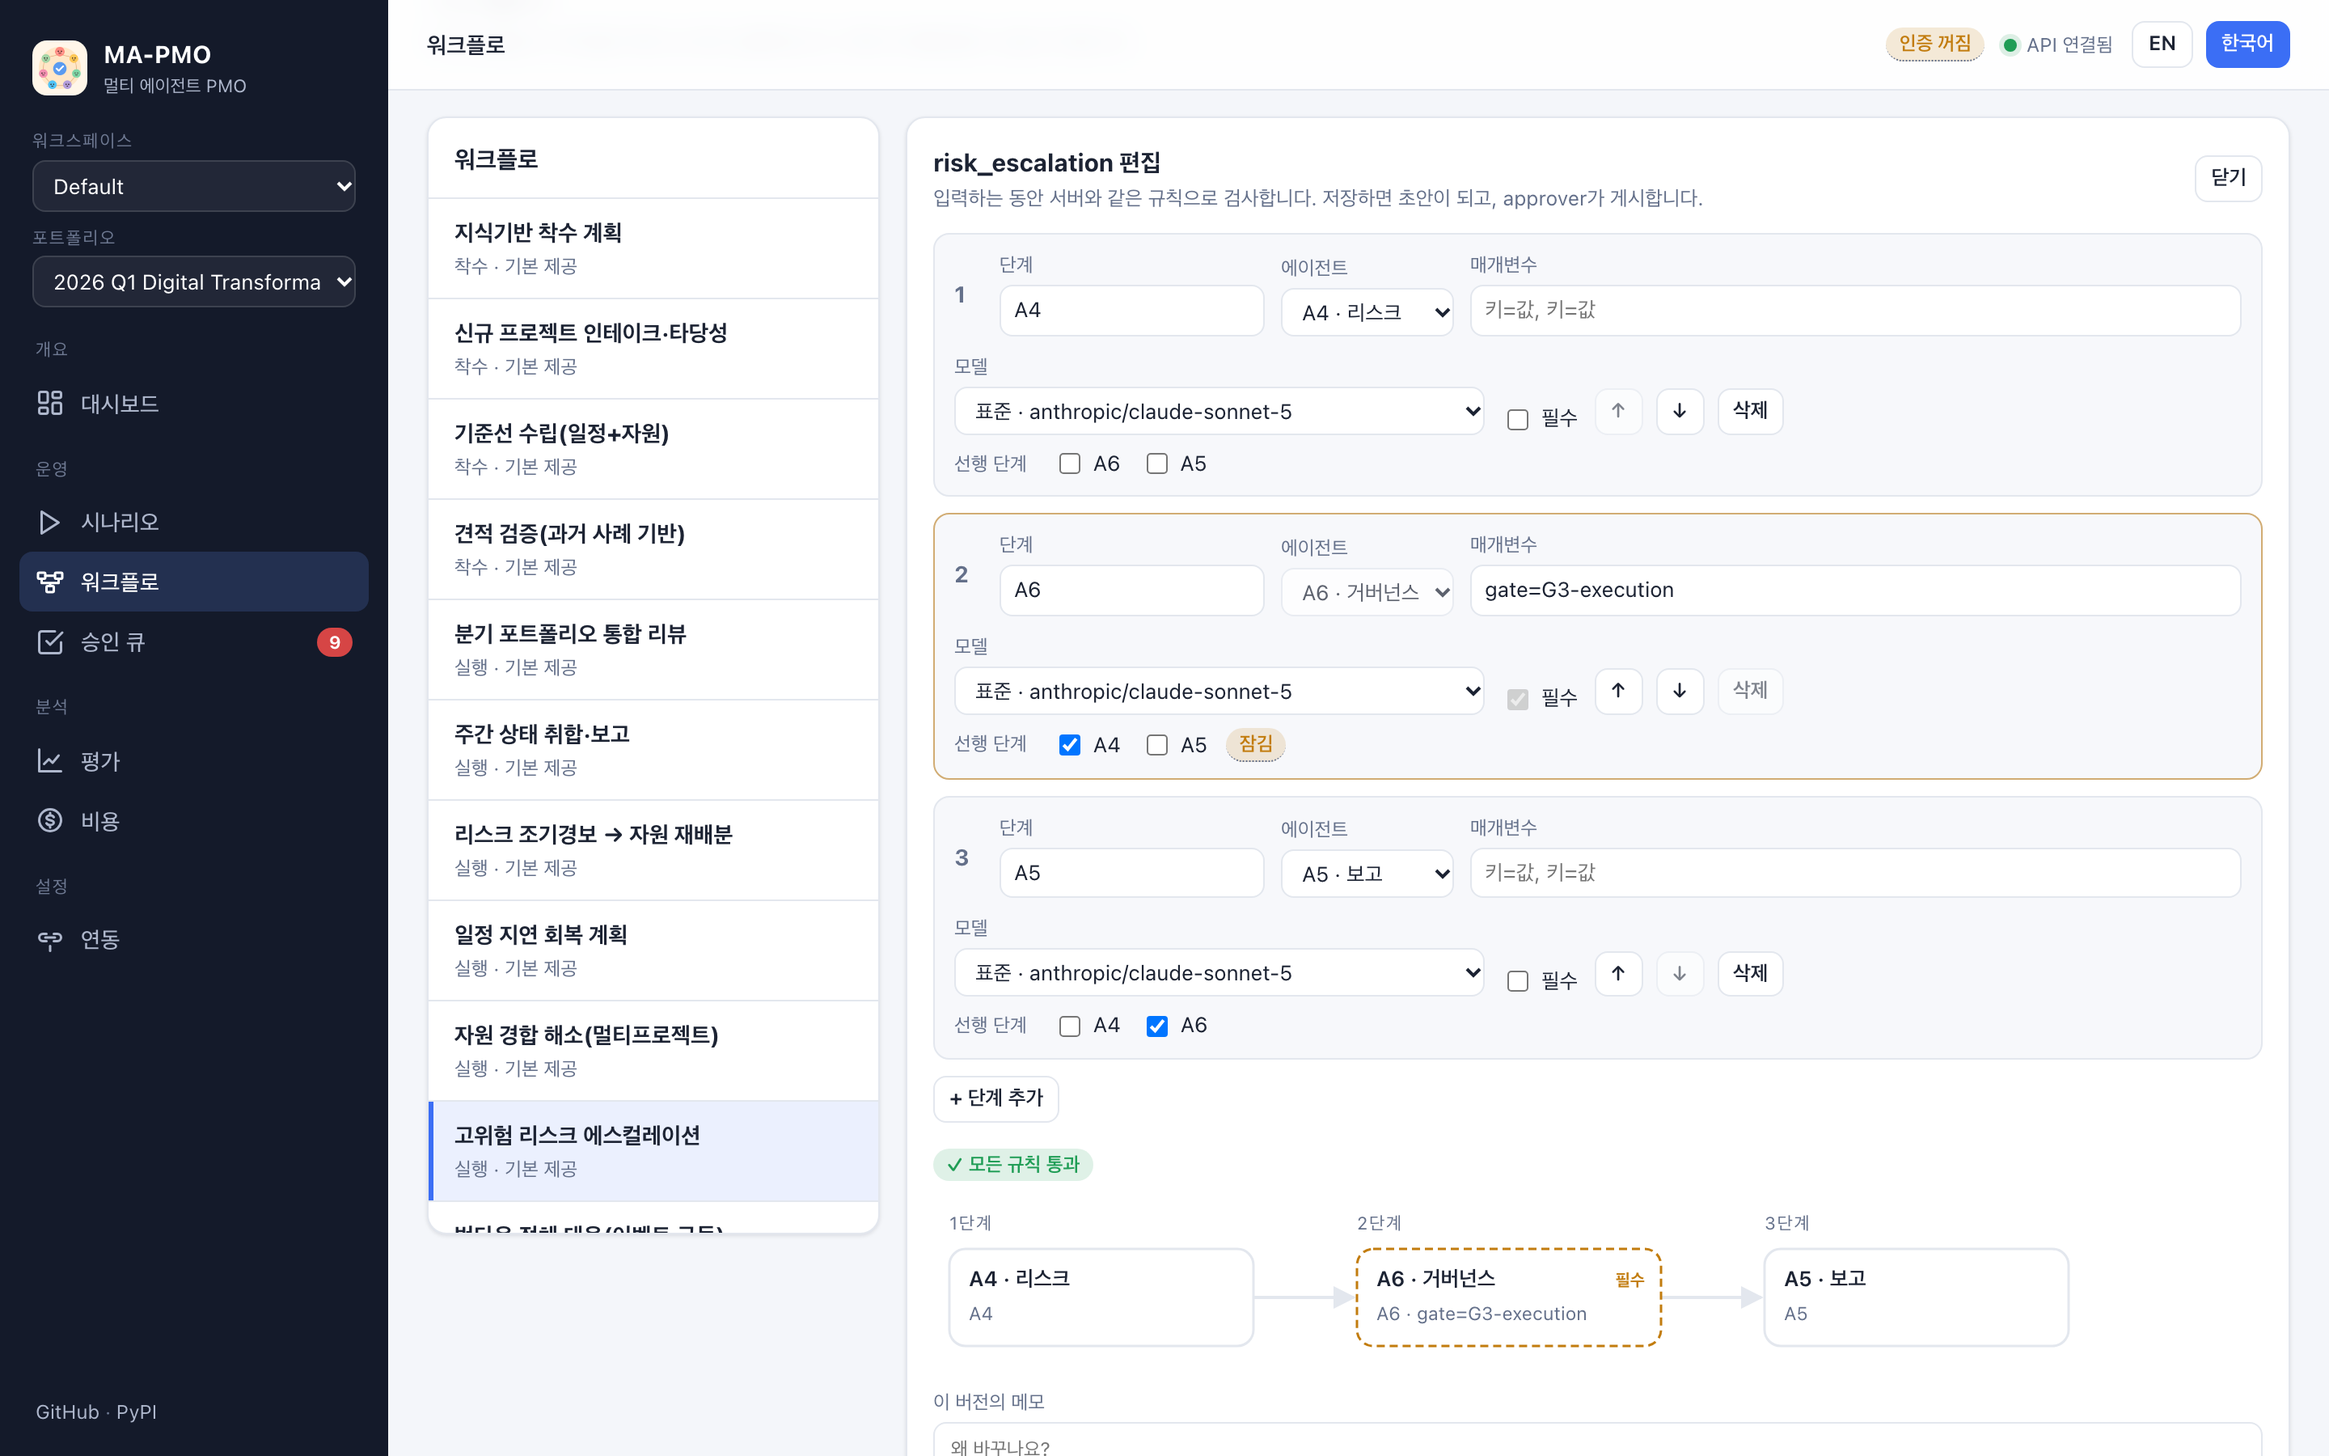
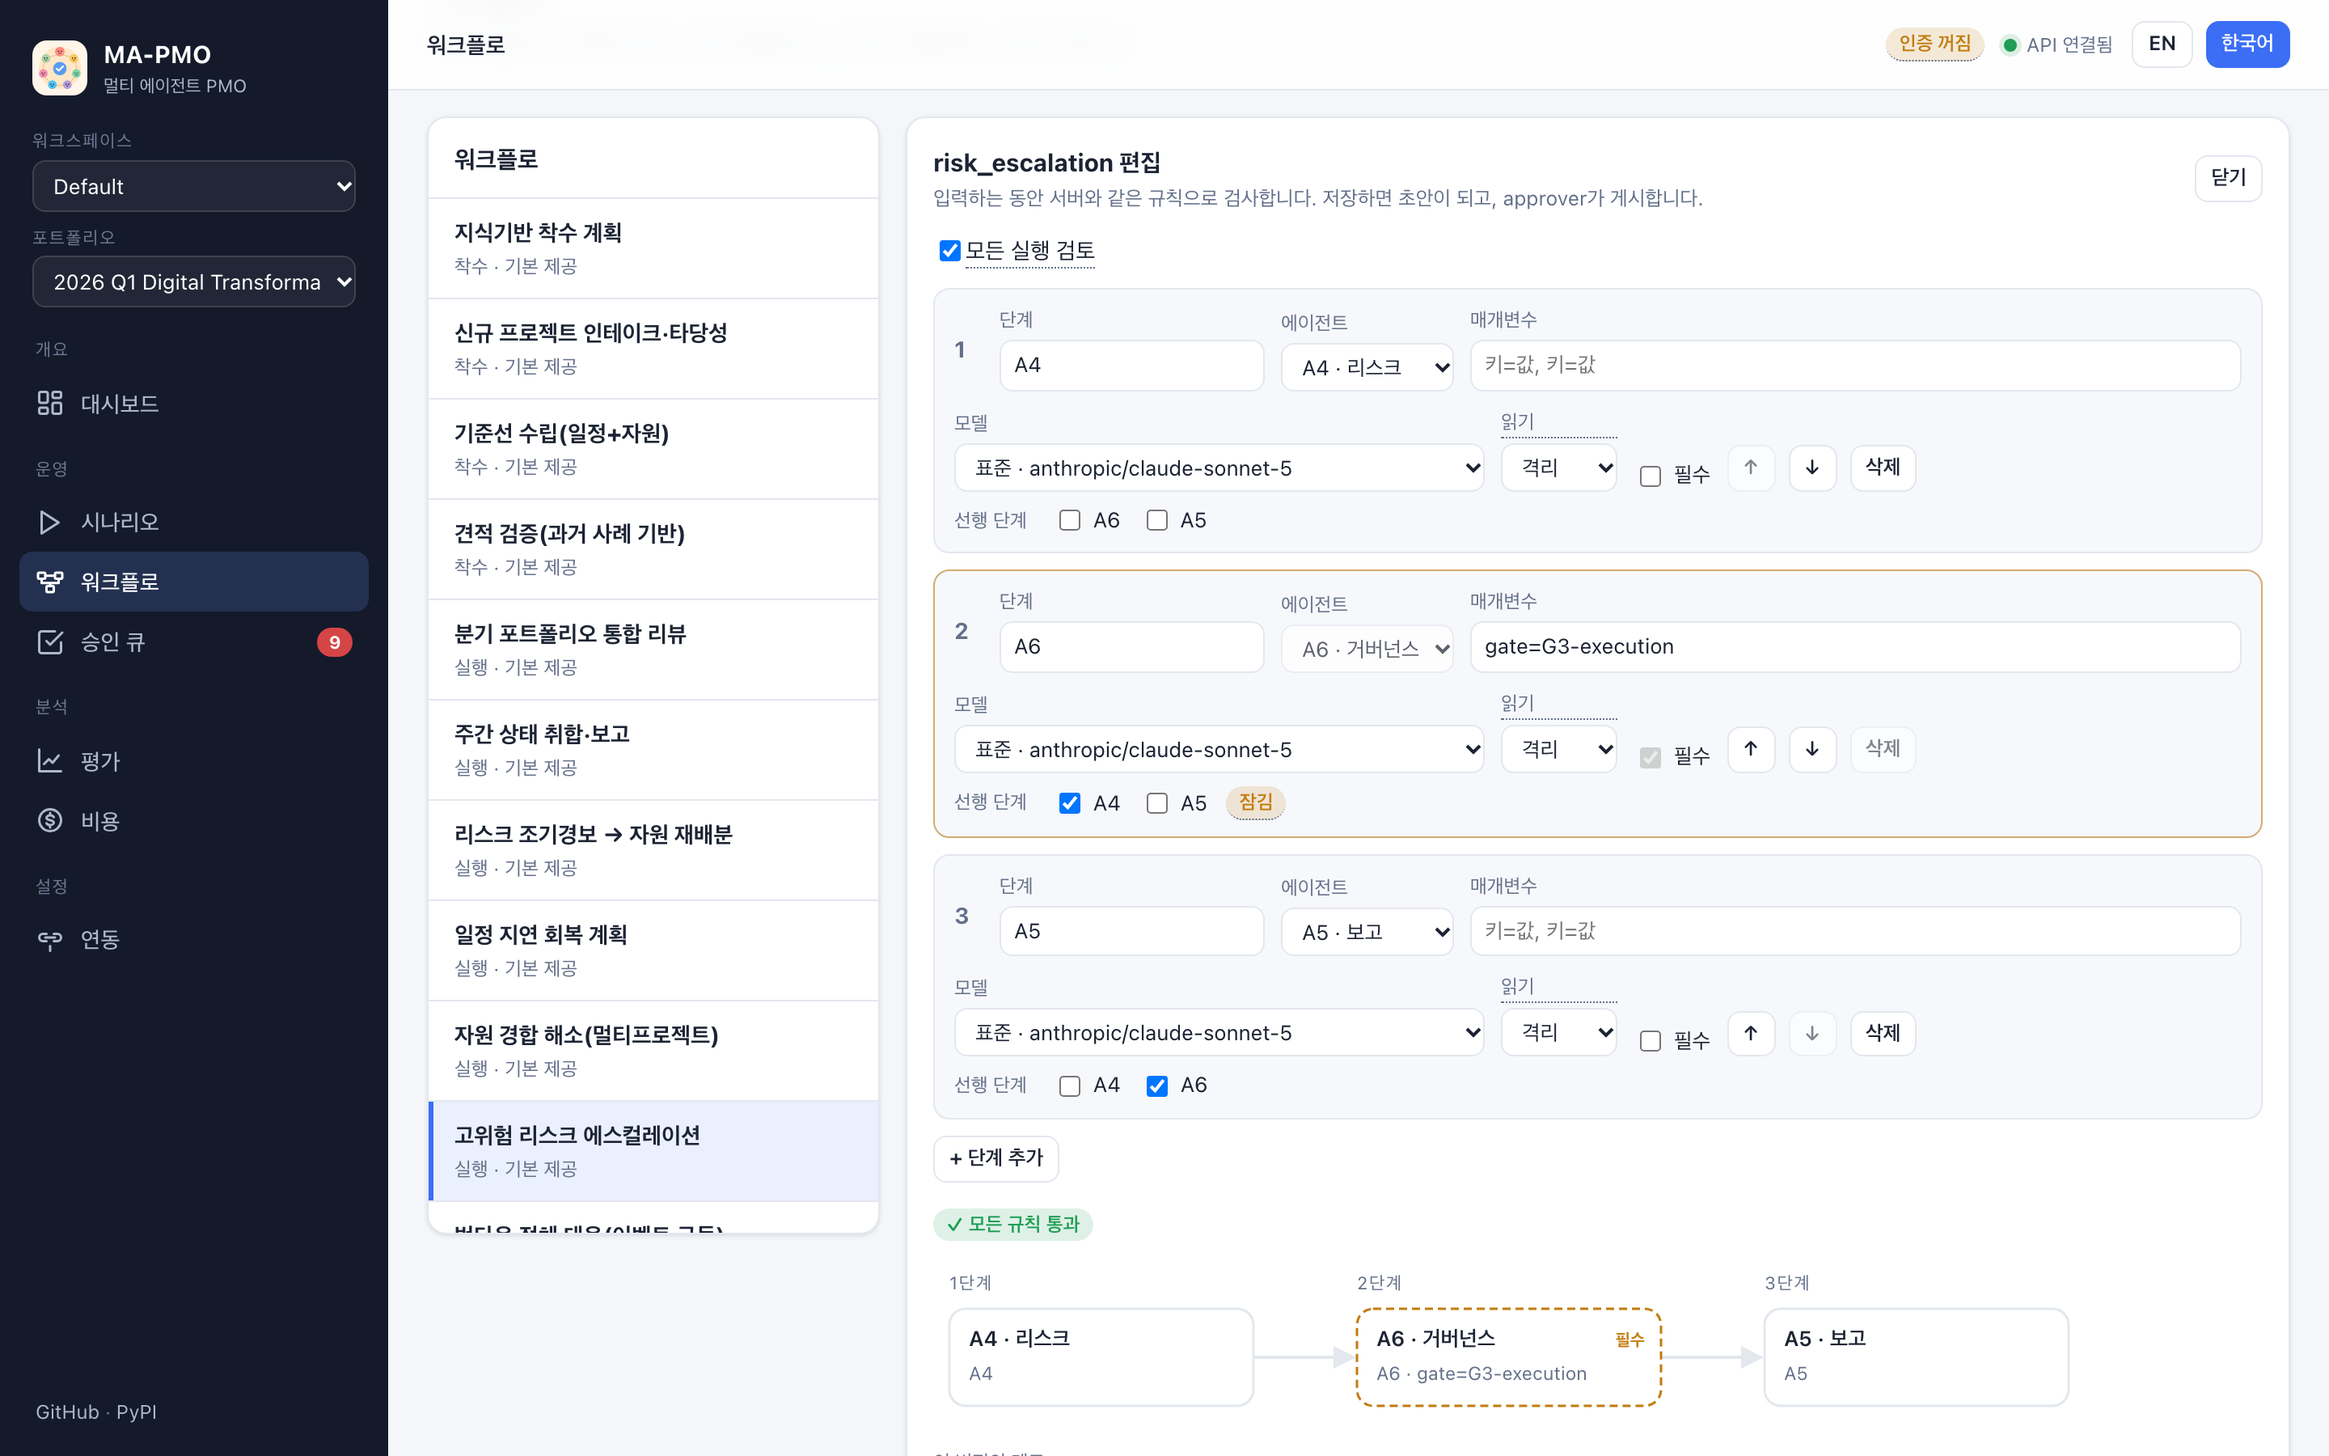
Release 0.7.0
Regression run, review screens in the READMEs (a decision held for review, a run's board) and
retaken screenshots and demo GIF; version 0.7.0 in pyproject, uv.lock, CITATION.cff and the
changelog.

diff --git a/docs/capture-screenshots.js b/docs/capture-screenshots.js
@@ -4,9 +4,9 @@
 // `python docs/capture_seed.py` for sample spend and recommendations, `make api`, `make web`),
 // Google Chrome, and `npm install playwright-core` in a scratch folder.
 // usage: node capture-screenshots.js <outDir> [--gif] [--base http://localhost:3000] [--api http://localhost:8000]
-// Writes <page>-<en|ko>.png for dashboard, scenarios, scenario-trace, approvals, evaluation,
-// integrations, workflows (with a run), workflow-editor, costs and recommendations
-// (1440x900 @2x, light theme). With --gif, frames go to <outDir>/frames named NNN_<hold>.png,
+// Writes <page>-<en|ko>.png for dashboard, scenarios, scenario-trace, approvals, review (a held
+// decision in the queue), evaluation, integrations, workflows (with a run), run-board,
+// workflow-editor, costs and recommendations (1440x900 @2x, light theme). With --gif, frames go to <outDir>/frames named NNN_<hold>.png,
 // where <hold> is the frame duration in ticks.
 const { chromium } = require("playwright-core");
 const fs = require("fs");
@@ -50,9 +50,13 @@ fs.mkdirSync(outDir, { recursive: true });
     await page.waitForSelector(lang === "ko" ? "text=인사이트 —" : "text=Insight —");
     await page.waitForTimeout(900); await shot(`scenario-trace-${lang}.png`);
     await go("/approvals", lang); await shot(`approvals-${lang}.png`);
+    await top(page.locator("tr:has(+ tr.rv-row)")); await shot(`review-${lang}.png`);
     await go("/evaluation", lang); await shot(`evaluation-${lang}.png`);
     await go("/integrations", lang); await shot(`integrations-${lang}.png`);
     await go(`/workflows?id=risk_escalation&run=${run}`, lang); await shot(`workflows-${lang}.png`);
+    await page.waitForSelector(".card h2 >> text=" + (lang === "ko" ? "게시판" : "Board"));
+    await top(page.locator(".card", { has: page.locator("h2", { hasText: lang === "ko" ? /^게시판$/ : /^Board$/ }) }));
+    await shot(`run-board-${lang}.png`);
     await go("/workflows?id=risk_escalation", lang);
     await page.locator(".wf-edit-btn", { hasText: lang === "ko" ? "편집" : "Edit" }).first().click();
     await page.waitForTimeout(500); await top(page.locator(".wf-edit-only")); await shot(`workflow-editor-${lang}.png`);

diff --git a/CHANGELOG.md b/CHANGELOG.md
@@ -6,6 +6,10 @@ All notable changes to this project are documented here. The format follows [Kee
 
 ## [Unreleased]
 
+## [0.7.0] - 2026-11-09
+
+Roadmap 7: agents' decisions are checked against each other before they commit, after ArcticSwarm ([docs/REVIEW.md](docs/REVIEW.md), [evaluation](docs/REVIEW-EVAL.md)).
+
 ### Added
 - What a step may read (Roadmap 7, [#71](https://github.com/ma-pmo/ma-pmo-ext/issues/71)): a workflow step's `reads` is `isolated` (the default, today's behaviour: its state has no `board`), `upstream` (posts of every step it waits for) or `board` (posts of every earlier stage). The executor enforces it; agents read with `ma_pmo.sdk.board_posts`. Messages carry `evidence` (references to messages, tracker fields or lessons; migration `0012_message_evidence`), set with `publish(..., evidence=...)`. `GET /runs/{id}/board` shows a run's posts and what each step could read. Built-in workflows stay isolated. After ArcticSwarm's gated bulletin board (Yoon et al., 2026, arXiv:2609.01870), implemented independently.
 - Builder review ([docs/REVIEW.md](docs/REVIEW.md)): where a workflow lets them read, A6 posts a `review.v1` verdict (`VERIFIED` or `CHALLENGE`, with evidence) per project for `gate.no_open_high_risk` (A4), `gate.staffed` and `gate.allocation_by_deadline` (A3), and A5 adds risks A4 raised to its key risks before posting `report.covers_risks`. A constraint whose source step is not readable is not checked. `allocation.v1` gains `unstaffed` (the overload alerts as data); evidence can point at a `step` that published nothing. All conflicts of the 0.6.0 spike are challenged, its controls verified.
@@ -18,6 +22,7 @@ All notable changes to this project are documented here. The format follows [Kee
 ### Changed
 - **Every run is reviewed by default** (pre-registered criteria met, see the evaluation): `WorkflowSpec.review` defaults to true, so A5 and A6 read their upstream, an A8 step runs last and the commit gate decides what commits. `"review": false` opts a workflow out. Golden traces gain the A8 step and its review messages; nothing else in them changes.
 - Alternatives are off by default (`MA_PMO_REVIEW_ALTERNATIVES=true` turns them on): the evaluation found they change nothing about what commits.
+- README screenshots and demo GIF retaken; new ones show a decision held for review in the approval queue and a run's board.
 
 ### Fixed
 - A run's graph was marked as an earlier version of its workflow whenever review had extended it; runs are now compared with the reviewed form of the current workflow.
@@ -153,7 +158,8 @@ First public release.
 ### Fixed
 - Progress bars on the dashboard did not render their fill.
 
-[Unreleased]: https://github.com/ma-pmo/ma-pmo-ext/compare/v0.6.0...HEAD
+[Unreleased]: https://github.com/ma-pmo/ma-pmo-ext/compare/v0.7.0...HEAD
+[0.7.0]: https://github.com/ma-pmo/ma-pmo-ext/compare/v0.6.0...v0.7.0
 [0.6.0]: https://github.com/ma-pmo/ma-pmo-ext/compare/v0.5.0...v0.6.0
 [0.5.0]: https://github.com/ma-pmo/ma-pmo-ext/compare/v0.4.0...v0.5.0
 [0.4.0]: https://github.com/ma-pmo/ma-pmo-ext/compare/v0.3.0...v0.4.0
@@ -167,6 +173,11 @@ First public release.
 
 ### [Unreleased]
 
+### [0.7.0] - 2026-11-09
+
+로드맵 7: 에이전트의 결정을 확정 전에 서로 대조합니다. ArcticSwarm을 따랐습니다([docs/REVIEW.ko.md](docs/REVIEW.ko.md), [평가](docs/REVIEW-EVAL.ko.md)).
+
+- 변경: README 스크린샷과 데모 GIF를 다시 찍었습니다. 승인 큐에서 검토 대기로 보류된 결정과 실행 게시판 화면을 새로 넣었습니다.
 - 추가: 단계가 읽을 수 있는 범위(로드맵 7, [#71](https://github.com/ma-pmo/ma-pmo-ext/issues/71)). 워크플로 단계의 `reads`는 `isolated`(기본, 지금과 같은 동작으로 상태에 `board`가 없음), `upstream`(기다리는 모든 단계의 게시물), `board`(앞선 모든 열의 게시물) 중 하나이며, 실행기가 강제합니다. 에이전트는 `ma_pmo.sdk.board_posts`로 읽습니다. 메시지에 `evidence`(메시지, 트래커 필드, 교훈에 대한 참조, 마이그레이션 `0012_message_evidence`)가 생기고 `publish(..., evidence=...)`로 남깁니다. `GET /runs/{id}/board`는 한 실행의 게시물과 각 단계가 읽을 수 있던 범위를 보여 줍니다. 기본 워크플로는 격리된 그대로입니다. ArcticSwarm(Yoon et al., 2026, arXiv:2609.01870)의 게이트 게시판을 참고해 독립적으로 구현했습니다.
 - 추가: builder 검토([docs/REVIEW.ko.md](docs/REVIEW.ko.md)). 워크플로가 읽기를 허락하면 A6가 프로젝트마다 `gate.no_open_high_risk`(A4), `gate.staffed`, `gate.allocation_by_deadline`(A3)에 대한 `review.v1` 판정(`VERIFIED` 또는 `CHALLENGE`, 근거 포함)을 게시하고, A5는 A4가 제기한 리스크를 핵심 리스크에 넣은 뒤 `report.covers_risks`를 게시합니다. 근거 단계를 읽을 수 없는 제약은 확인하지 않습니다. `allocation.v1`에 `unstaffed`(과부하 경보의 데이터 형태)가 생기고, 근거가 아무것도 게시하지 않은 `step`을 가리킬 수 있습니다. 0.6.0 스파이크의 충돌은 모두 CHALLENGE, 대조군은 VERIFIED로 판정됩니다.
 - 추가: A8 감사와 검토 워크플로([docs/REVIEW.ko.md](docs/REVIEW.ko.md#전담-검토-a8-감사)). 워크플로에 `"review": true`를 주면 실행마다 A5·A6 단계가 `upstream`을 읽고, 마지막에 게시판 전체를 읽는 A8 단계가 추가되어 모든 게이트 결정과 보고서에 `dedicated` 판정을 남깁니다. builder와 같은 규칙을 쓰지만 builder의 판정은 읽지 않습니다. A1은 A8에 위임하지 않습니다(`AgentSpec.routable=False`, 플러그인도 사용 가능). `GET /workflows`에 `review`가 나옵니다.

diff --git a/README.md b/README.md
@@ -53,8 +53,10 @@ MA-PMO turns the proof-of-concept simulation of the *MA-PMO* paper into a real, 
 | ![Workflow graph coloured by a finished run, step table and versions with a draft to publish](https://raw.githubusercontent.com/ma-pmo/ma-pmo-ext/main/docs/assets/workflows-en.png) | ![Workflow editor with steps, model tiers, locked required step and live graph](https://raw.githubusercontent.com/ma-pmo/ma-pmo-ext/main/docs/assets/workflow-editor-en.png) |
 | **Costs and budgets** | **Model recommendations from replays** |
 | ![Costs page with spend, calls, tokens and monthly and per-run budgets](https://raw.githubusercontent.com/ma-pmo/ma-pmo-ext/main/docs/assets/costs-en.png) | ![Replay results comparing the standard and fast model with 95% intervals, approve or reject](https://raw.githubusercontent.com/ma-pmo/ma-pmo-ext/main/docs/assets/recommendations-en.png) |
+| **A challenged decision waiting for a person** | **The run's board: reads, verdicts, commits** |
+| ![Approval queue with a gate held for review: challenges from the builder and the dedicated reviewer, citing A4's risk alert](https://raw.githubusercontent.com/ma-pmo/ma-pmo-ext/main/docs/assets/review-en.png) | ![Run board with each step's read mode, posts and verdicts, and decisions committed or held](https://raw.githubusercontent.com/ma-pmo/ma-pmo-ext/main/docs/assets/run-board-en.png) |
 
-Korean UI: [dashboard](https://raw.githubusercontent.com/ma-pmo/ma-pmo-ext/main/docs/assets/dashboard-ko.png) · [scenario trace](https://raw.githubusercontent.com/ma-pmo/ma-pmo-ext/main/docs/assets/scenario-trace-ko.png) · [evaluation](https://raw.githubusercontent.com/ma-pmo/ma-pmo-ext/main/docs/assets/evaluation-ko.png) · [approvals](https://raw.githubusercontent.com/ma-pmo/ma-pmo-ext/main/docs/assets/approvals-ko.png) · [scenarios](https://raw.githubusercontent.com/ma-pmo/ma-pmo-ext/main/docs/assets/scenarios-ko.png) · [integrations](https://raw.githubusercontent.com/ma-pmo/ma-pmo-ext/main/docs/assets/integrations-ko.png) · [workflows](https://raw.githubusercontent.com/ma-pmo/ma-pmo-ext/main/docs/assets/workflows-ko.png) · [workflow editor](https://raw.githubusercontent.com/ma-pmo/ma-pmo-ext/main/docs/assets/workflow-editor-ko.png) · [costs](https://raw.githubusercontent.com/ma-pmo/ma-pmo-ext/main/docs/assets/costs-ko.png) · [recommendations](https://raw.githubusercontent.com/ma-pmo/ma-pmo-ext/main/docs/assets/recommendations-ko.png). The spend on the Costs screenshots is sample data from [docs/capture_seed.py](https://github.com/ma-pmo/ma-pmo-ext/blob/main/docs/capture_seed.py). Light and dark themes follow the OS setting.
+Korean UI: [dashboard](https://raw.githubusercontent.com/ma-pmo/ma-pmo-ext/main/docs/assets/dashboard-ko.png) · [scenario trace](https://raw.githubusercontent.com/ma-pmo/ma-pmo-ext/main/docs/assets/scenario-trace-ko.png) · [evaluation](https://raw.githubusercontent.com/ma-pmo/ma-pmo-ext/main/docs/assets/evaluation-ko.png) · [approvals](https://raw.githubusercontent.com/ma-pmo/ma-pmo-ext/main/docs/assets/approvals-ko.png) · [scenarios](https://raw.githubusercontent.com/ma-pmo/ma-pmo-ext/main/docs/assets/scenarios-ko.png) · [integrations](https://raw.githubusercontent.com/ma-pmo/ma-pmo-ext/main/docs/assets/integrations-ko.png) · [workflows](https://raw.githubusercontent.com/ma-pmo/ma-pmo-ext/main/docs/assets/workflows-ko.png) · [workflow editor](https://raw.githubusercontent.com/ma-pmo/ma-pmo-ext/main/docs/assets/workflow-editor-ko.png) · [costs](https://raw.githubusercontent.com/ma-pmo/ma-pmo-ext/main/docs/assets/costs-ko.png) · [recommendations](https://raw.githubusercontent.com/ma-pmo/ma-pmo-ext/main/docs/assets/recommendations-ko.png) · [review](https://raw.githubusercontent.com/ma-pmo/ma-pmo-ext/main/docs/assets/review-ko.png) · [run board](https://raw.githubusercontent.com/ma-pmo/ma-pmo-ext/main/docs/assets/run-board-ko.png). The spend on the Costs screenshots is sample data from [docs/capture_seed.py](https://github.com/ma-pmo/ma-pmo-ext/blob/main/docs/capture_seed.py). Light and dark themes follow the OS setting.
 
 ## Quick start
 

diff --git a/README.ko.md b/README.ko.md
@@ -53,6 +53,8 @@
 | ![끝난 실행으로 색칠한 워크플로 그래프, 단계 표, 게시할 초안이 있는 버전 표](docs/assets/workflows-ko.png) | ![단계, 모델 등급, 잠긴 필수 단계, 바로 바뀌는 그래프가 있는 워크플로 편집기](docs/assets/workflow-editor-ko.png) |
 | **비용과 예산** | **재생으로 만든 모델 추천** |
 | ![비용, 호출 수, 토큰, 월·실행 예산이 있는 비용 화면](docs/assets/costs-ko.png) | ![표준 모델과 빠른 모델을 95% 구간으로 비교하고 승인·거절하는 재생 결과](docs/assets/recommendations-ko.png) |
+| **사람을 기다리는 이의 제기된 결정** | **실행 게시판: 읽기 범위, 판정, 확정** |
+| ![검토 대기로 보류된 게이트와 담당 에이전트·전담 검토자의 이의, A4 리스크 경보 인용](docs/assets/review-ko.png) | ![단계별 읽기 범위·게시물·판정과 확정·보류된 결정이 보이는 실행 게시판](docs/assets/run-board-ko.png) |
 
 비용 화면 스크린샷의 금액은 [docs/capture_seed.py](docs/capture_seed.py)로 만든 예시 데이터입니다. 라이트·다크 테마는 OS 설정을 따릅니다.
 
